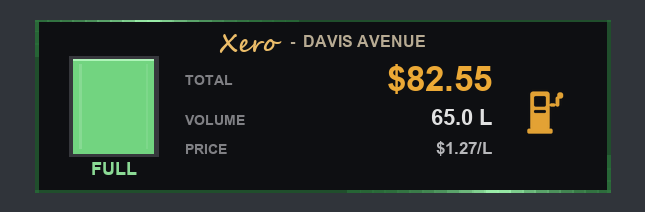
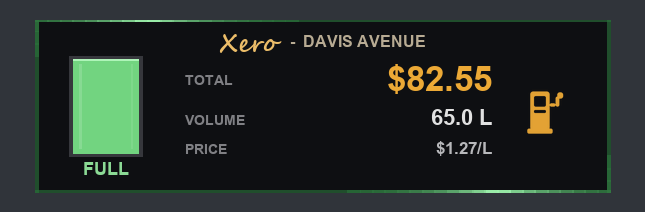
The rope picker back, and a narrower sight glass
EIGHT ROPES IS THE WHOLE OF IT, and this time that is established rather than
inferred from a crash. ADD_ROPE's type is a zero-based index into ropedata.xml,
that file holds eight entries, and the native's own documentation gives the valid
range as 0 to 7 inclusive as of build 3258 -- with a known crash report titled
"ropeData Pool Full, Size == 7" for anyone who asks for more. So the range
RopeProbe worked out the expensive way is correct.

There is also no second rope system to search for, which was the other half of
the question. Every rope native in SHVDN was listed and read: ADD_ROPE is the
only general creator. The rest belong to something specific -- CREATE_PICK_UP_
ROPE_FOR_CARGOBOB, SET_CARGOBOB_PICKUP_ROPE_TYPE, the tow truck arm -- and none
can be pointed at a fuel hose. The picker is a choice between eight, not a
search, because eight is all there is.

One find worth keeping for later: ROPE_DRAW_ENABLED exists. That is the thing the
textureless-rope experiment was reaching for and broke the physics to get -- a
rope that simulates and is not drawn. If a black hose is ever wanted again, that
is the way in, not skipping ROPE_LOAD_TEXTURES.

Unconditional while the nozzle is out, as before. Gating a picker behind a
setting that defaults to false is what made it look broken the first time. There
is a RopePicker switch to hand the key back once one is settled on.

Tank glass 144 -> 117 px wide. A square glass reads as a fish tank; a sight glass
[…]

Changed region(s): [[0.2171, 0.2547, 0.2481, 0.7642], [0.124, 0.7642, 0.2171, 0.8491]]

diff --git a/src/Fumes/Station/Refuel.cs b/src/Fumes/Station/Refuel.cs
@@ -168,6 +168,68 @@ namespace Fumes.Station
             if (!string.IsNullOrEmpty(_fallback)) Draw.Help(_fallback);
         }
 
+        /// <summary>
+        /// Cycles the rope the hose is made of, while it is in your hand.
+        ///
+        /// EIGHT ROPES IS THE WHOLE OF IT. ADD_ROPE's type is a zero-based index into
+        /// ropedata.xml and that file holds eight entries, 0 to 7 -- confirmed against the
+        /// native's own documentation, not only against the crash that taught us the hard way.
+        /// There is no ninth to look for and no second rope system to look in: ADD_ROPE is the
+        /// only general rope creator the game exposes. The other rope natives all belong to
+        /// something specific -- the cargobob's pickup rope, the tow truck's arm -- and cannot
+        /// be pointed at a fuel hose.
+        ///
+        /// So this is a choice between eight, not a search, and it is one key because there is
+        /// nothing else to try.
+        ///
+        /// Unconditional while the nozzle is out, as before. Gating a picker behind a setting
+        /// that defaults to false is what made it look broken the first time: the answer to
+        /// "which rope?" was locked inside a switch nobody had been told to turn on. Set
+        /// [Nozzle] RopePicker = false to bind the key back once you have settled on one.
+        /// </summary>
+        private void RopePicker()
+        {
+            if (!_cfg.RopePicker) return;
+
+            if (Edge(System.Windows.Forms.Keys.Multiply, ref _ropeKeyDown))
+            {
+                _cfg.HoseRopeType = RopeProbe.Next(_cfg.HoseRopeType);
+
+                // The type is baked in at ADD_ROPE, so the rope has to be thrown away and made
+                // again. It respawns on the next frame from Carrying.
+                _hose.Retract();
+
+                Log.Info("Hose rope type is now " + _cfg.HoseRopeType + ".");
+                Notify("Hose rope ~b~" + _cfg.HoseRopeType + "~s~ of 0-" + RopeProbe.MaxType +
+                       ".   NumPad 0 to keep it.");
+            }
+
+            if (Edge(System.Windows.Forms.Keys.NumPad0, ref _ropeSaveKey))
+            {
+                var ok = IniFile.SetValue(Paths.Ini, "Nozzle", "HoseRopeType",
+                                          _cfg.HoseRopeType.ToString(CultureInfo.InvariantCulture));
+
+                Notify(ok ? "~g~Rope " + _cfg.HoseRopeType + " saved~s~ to Fumes.ini."
+                          : "~y~Could not write Fumes.ini~s~ - it is in Fumes.log.");
+
+                Log.Info("Rope type " + _cfg.HoseRopeType + " written to the ini.");
+            }
+        }
+
+        private bool _ropeKeyDown, _ropeSaveKey;
+
+        /// <summary>Rising edge for a key, since the input API only reports held.</summary>
+        private static bool Edge(System.Windows.Forms.Keys key, ref bool wasDown)
+        {
+            bool down;
+            try { down = Game.IsKeyPressed(key); }
+            catch { down = false; }
+
+            var edge = down && !wasDown;
+            wasDown = down;
+            return edge;
+        }
+
         private static Ped Player()
         {
             try
@@ -296,6 +358,7 @@ namespace Fumes.Station
             if (_pump == null || !_pump.Exists()) { Abandon("the pump went away"); return; }
 
             _nozzle.Take();     // keeps asking until the model streams; no-op once it is out
+            RopePicker();
             LockHands();
 
             var anchor = Anchor();

diff --git a/src/Fumes/Core/Settings.cs b/src/Fumes/Core/Settings.cs
@@ -212,6 +212,11 @@ namespace Fumes.Core
         public int HoseRopeType = 4;
 
         /// <summary>
+        /// The in-game rope picker: NumPad * to cycle, NumPad 0 to keep.
+        /// </summary>
+        public bool RopePicker = true;
+
+        /// <summary>
         /// Rope types that have crashed this install, comma separated.
         ///
         /// ADD_ROPE does not validate its type -- it indexes a table, and an index past the end
@@ -656,6 +661,7 @@ namespace Fumes.Core
                 // 0-7, not 0-8. Type 8 is off the end of the game's rope table and killed the
                 // process the first time it was ever asked for.
                 s.HoseRopeType = ini.GetInt("Nozzle", "HoseRopeType", s.HoseRopeType, 0, RopeProbe.MaxType);
+                s.RopePicker = ini.GetBool("Nozzle", "RopePicker", s.RopePicker);
                 s.BadRopeTypes = ini.GetString("Nozzle", "BadRopeTypes", s.BadRopeTypes);
                 s.HoseRed = ini.GetInt("Nozzle", "HoseRed", s.HoseRed, 0, 255);
                 s.HoseGreen = ini.GetInt("Nozzle", "HoseGreen", s.HoseGreen, 0, 255);

diff --git a/src/Fumes/UI/Meter.cs b/src/Fumes/UI/Meter.cs
@@ -47,7 +47,11 @@ namespace Fumes.UI
         // ---- the glass ---------------------------------------------------
         private const float TankX = 0.020f;     // from the panel's left edge
         private const float TankY = 0.036f;     // from the panel's top
-        private const float TankW = 0.042f;
+        // Narrower than it is tall, which is what a sight glass on a pump actually looks
+        // like -- the square it was reads as a fish tank. Everything else about the tank is
+        // derived from this, the fill and the bubbles and the percentage centred underneath,
+        // so it is the only number that moves.
+        private const float TankW = 0.034f;
         private const float TankH = 0.088f;
 
         // ---- the numbers column ------------------------------------------

diff --git a/tools/preview_meter.py b/tools/preview_meter.py
@@ -34,7 +34,7 @@ ASPECT = SCREEN_W / SCREEN_H
 
 # ---- mirrored from Meter.cs -------------------------------------------------
 X, TOP, W, H = 0.5, 0.700, 0.300, 0.160
-TANK_X, TANK_Y, TANK_W, TANK_H = 0.020, 0.036, 0.042, 0.088
+TANK_X, TANK_Y, TANK_W, TANK_H = 0.020, 0.036, 0.034, 0.088
 COL_LEFT, COL_RIGHT = 0.078, 0.238
 COLUMNS, BUBBLES = 48, 9
 BORDER_SEGMENTS = 120
